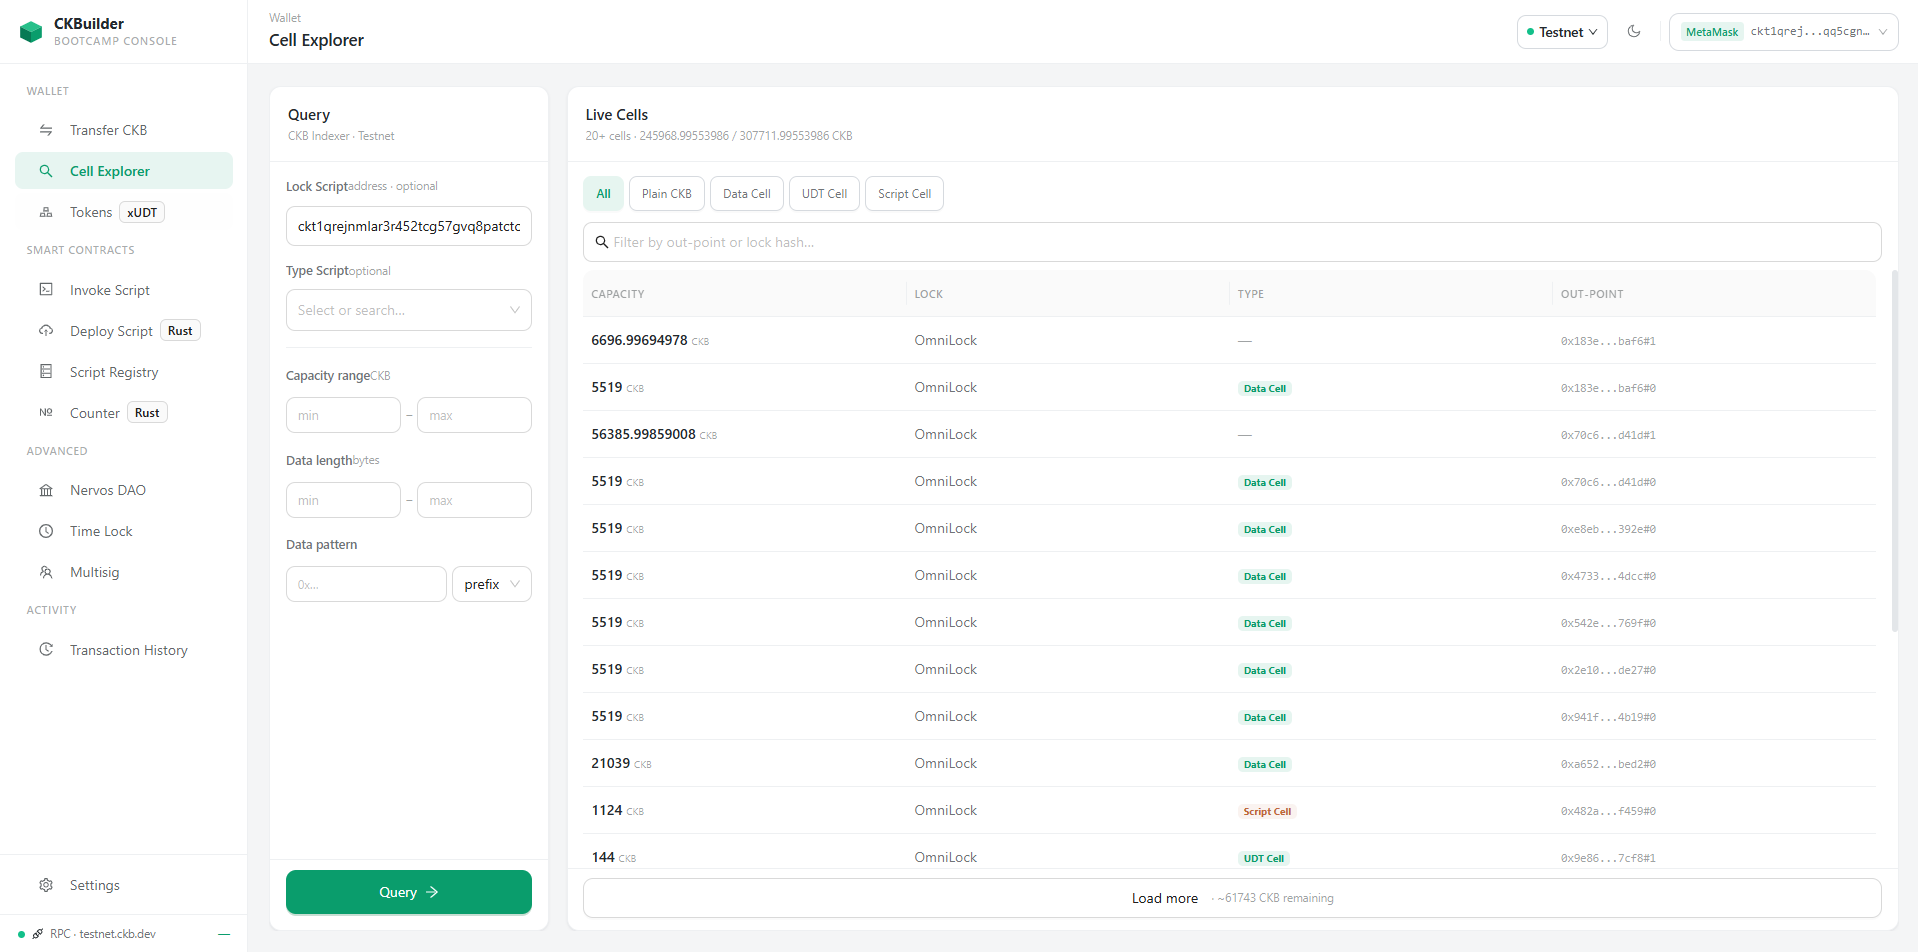
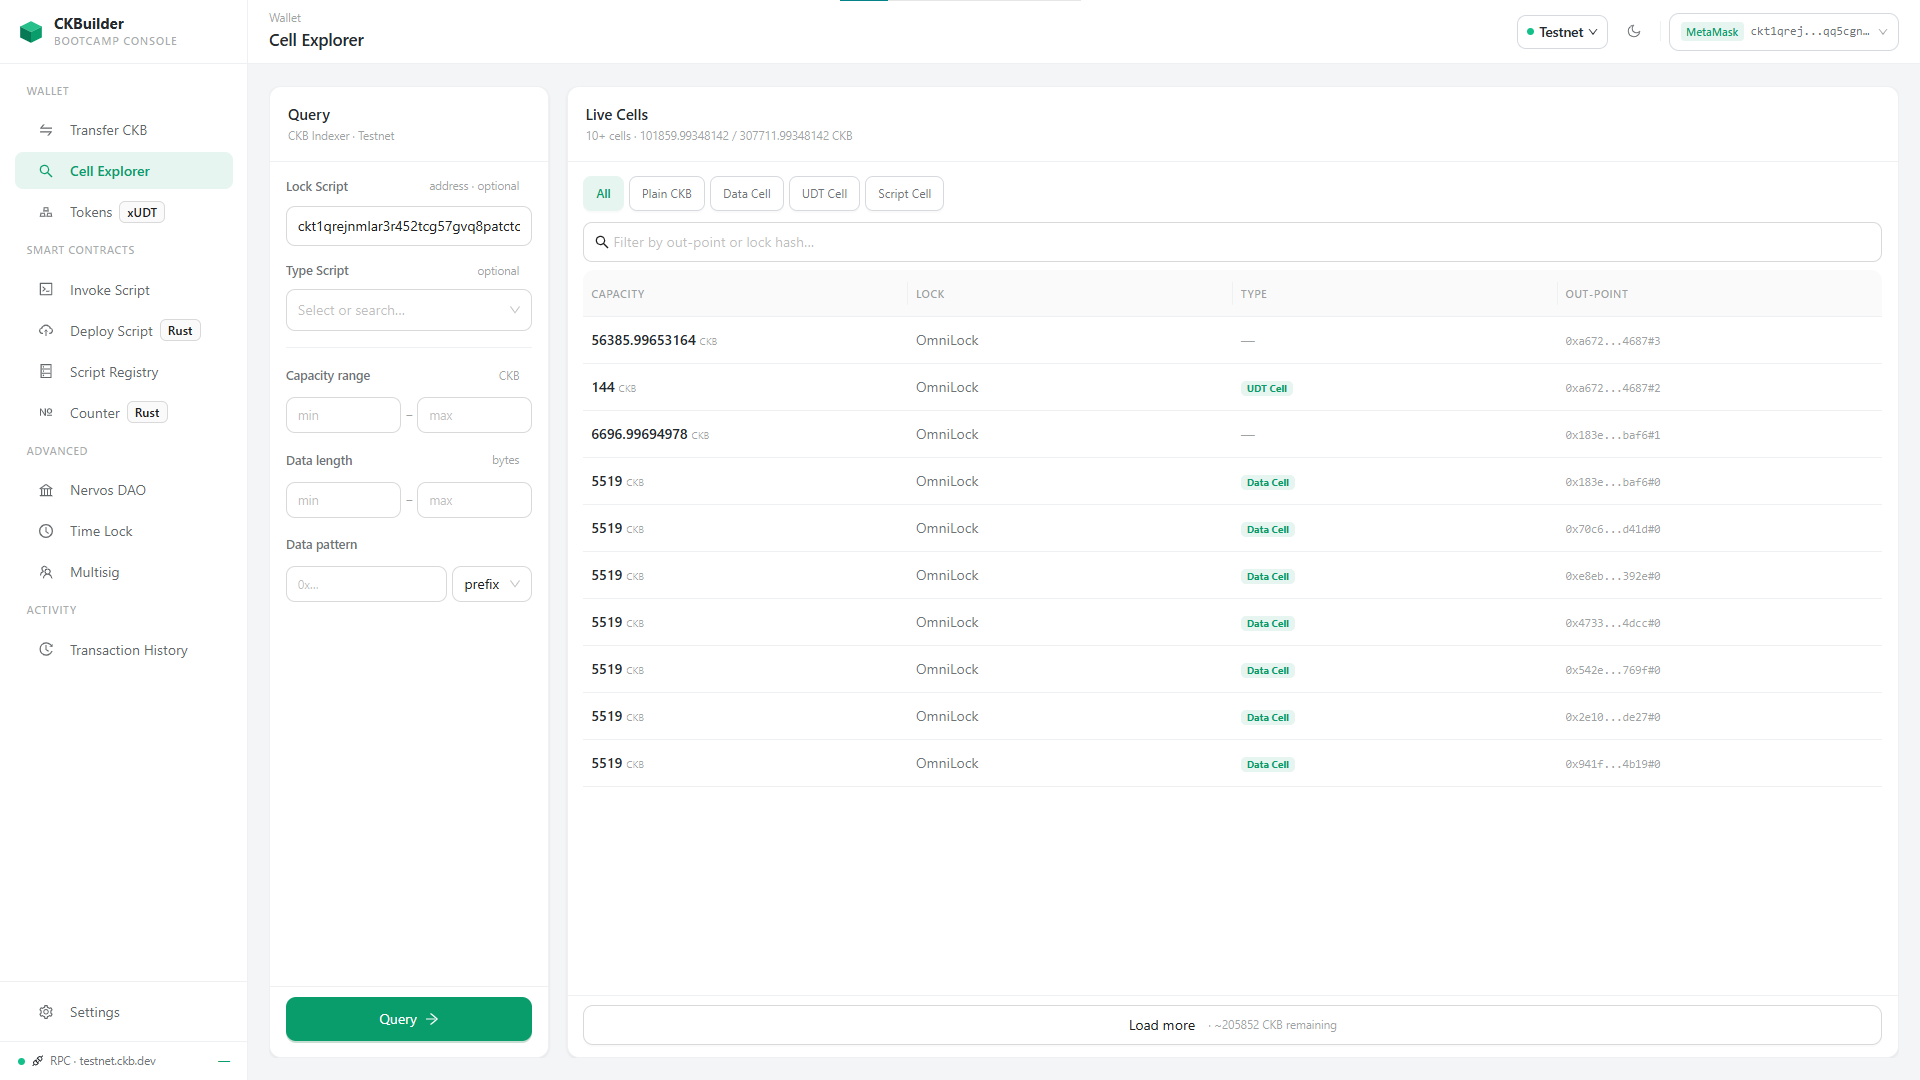
docs: refresh the screenshots and add /tokens, with captions to match
The four existing shots were retaken after the label and UI changes, and
`/tokens` gets its first one. Kept as a single commit because every caption
edit below is forced by the image it sits under — splitting them would leave
one half describing pictures that are no longer there.

What the new images changed:

- transfer: different amounts, so the caption's 56,385.99 / 100 CKB no longer
  matched anything on screen — now 6,696.99 in, 1,000 out
- deploy: shot on the Raw tab, which shows the output cell the deployment
  creates rather than the summary the old caption described
- counter: shot of the increment modal over the table, so the caption no
  longer says "creating a cell" — it now names the state transition the type
  script actually checks (0 → 1, capacity carried forward)
- cell-explorer: caption no longer claims to show "the cells behind that
  balance", which was a cross-reference to the transfer shot that the new
  totals break. Mentions the cell-kind quick filters instead
- the section intro said "Testnet, wallet connected"; three of the six are
  now shot on a local devnet

`/tokens` sits after Cell Explorer, matching the sidebar order, and its
caption uses the shot to make the point the docs make in prose: a token cell
locks 148 CKB as a deposit, which is why a second input appears.

Claude-Session: https://claude.ai/code/session_01CF6EzvNkc7r5XbYuZrgos4

diff --git a/README.md b/README.md
@@ -15,26 +15,35 @@ transfer. Nothing to install.
 
 ## Screenshots
 
-Testnet, wallet connected. Every number in these is real chain data.
+Wallet connected, every number real chain data — testnet where the header reads Testnet, a local
+devnet where it reads Local Devnet.
 
 ![Transfer CKB](ckb-lab/docs/screenshots/transfer.png)
 
 *`/transfer` — the form on the left, the cell-model preview on the right. CKB is UTXO-style, so
-a transfer is not a balance update: one input cell of 56,385.99 CKB is consumed and two output
-cells are created, the 100 CKB going out and the change coming back.*
+a transfer is not a balance update: one input cell of 6,696.99 CKB is consumed and two output
+cells are created — the 1,000 CKB going out, and the change coming back.*
 
 <details>
-<summary><b>Four more — Cell Explorer, Deploy, Registry, Counter</b></summary>
+<summary><b>Five more — Cell Explorer, Tokens, Deploy, Registry, Counter</b></summary>
 
 ![Cell Explorer](ckb-lab/docs/screenshots/cell-explorer.png)
 
-*`/cell-explorer` — the live cells behind that balance, queried straight from the CKB indexer
-and filterable by lock, type, capacity range, data length and data prefix.*
+*`/cell-explorer` — live cells straight from the CKB indexer, filterable by lock, type, capacity
+range, data length and data prefix, with quick filters for plain CKB, data, UDT and script cells.*
+
+![Tokens](ckb-lab/docs/screenshots/tokens.png)
+
+*`/tokens` — transferring 3,000 units of an xUDT. Two input cells become three outputs: the
+recipient's token cell, a token change cell, and the CKB change. Each token cell locks 148 CKB of
+capacity — a deposit returned when the cell is spent, not a fee — which is why a plain CKB cell is
+pulled in to fund the extra one.*
 
 ![Deploy Script](ckb-lab/docs/screenshots/deploy.png)
 
-*`/deploy` — a compiled RISC-V binary uploaded from the browser, with its `data_hash`, the
-capacity the cell will occupy, and the `hash_type` it will be referenced by.*
+*`/deploy` — a compiled RISC-V binary uploaded from the browser. The Raw tab shows the output cell
+the deployment will create, carrying the binary as its data; Type ID and `hash_type` are chosen
+above, and the capacity the cell will occupy is checked against the wallet before signing.*
 
 ![Script Registry](ckb-lab/docs/screenshots/registry.png)
 
@@ -43,8 +52,9 @@ capacity the cell will occupy, and the `hash_type` it will be referenced by.*
 
 ![Counter](ckb-lab/docs/screenshots/counter.png)
 
-*`/counter` — creating a cell governed by the `counter` Rust type script, previewing the state
-transition before signing.*
+*`/counter` — counters this browser tracks, listed in a table; a row action opens the modal shown
+here. The state transition is previewed before signing — `count = 0` in, `count = 1` out, the
+cell's 104 CKB carried forward — which is exactly what the type script checks.*
 
 </details>
 
